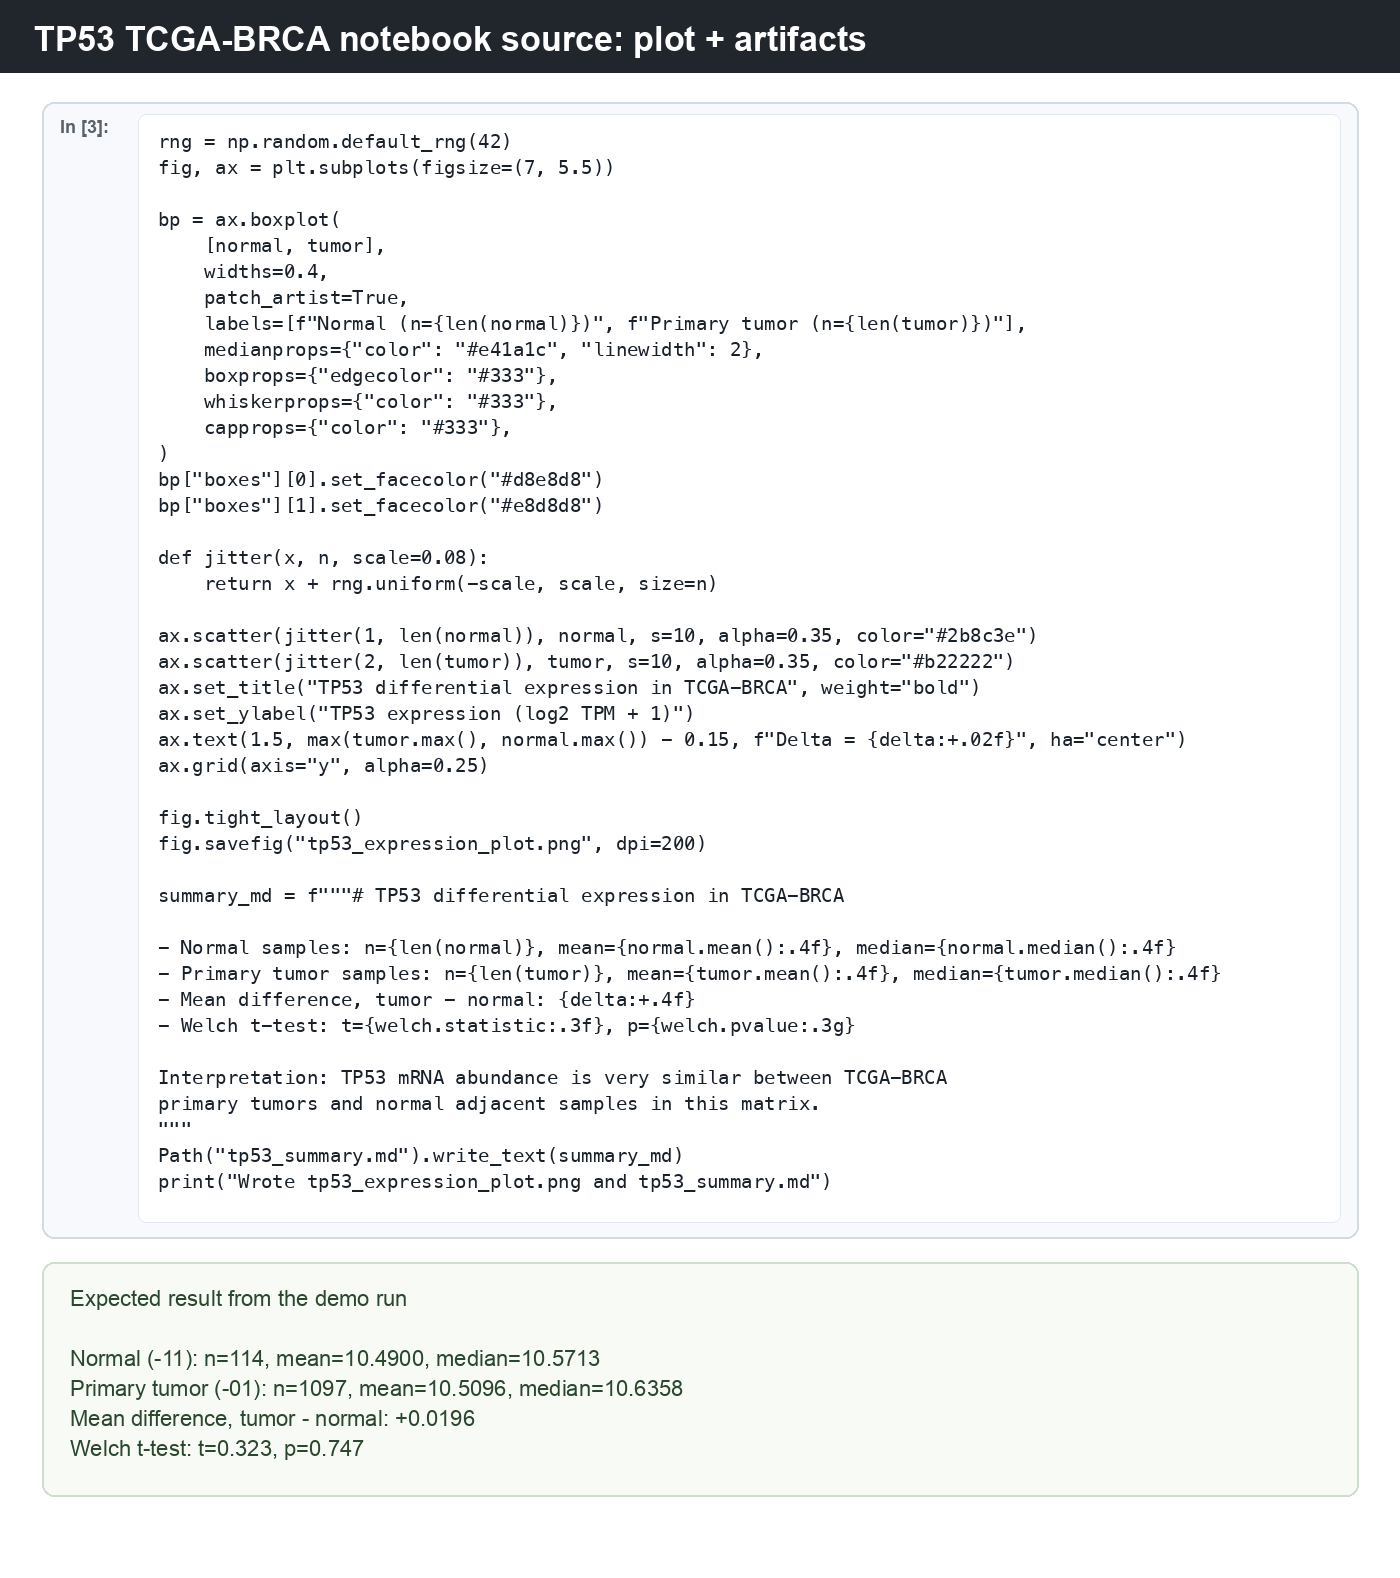
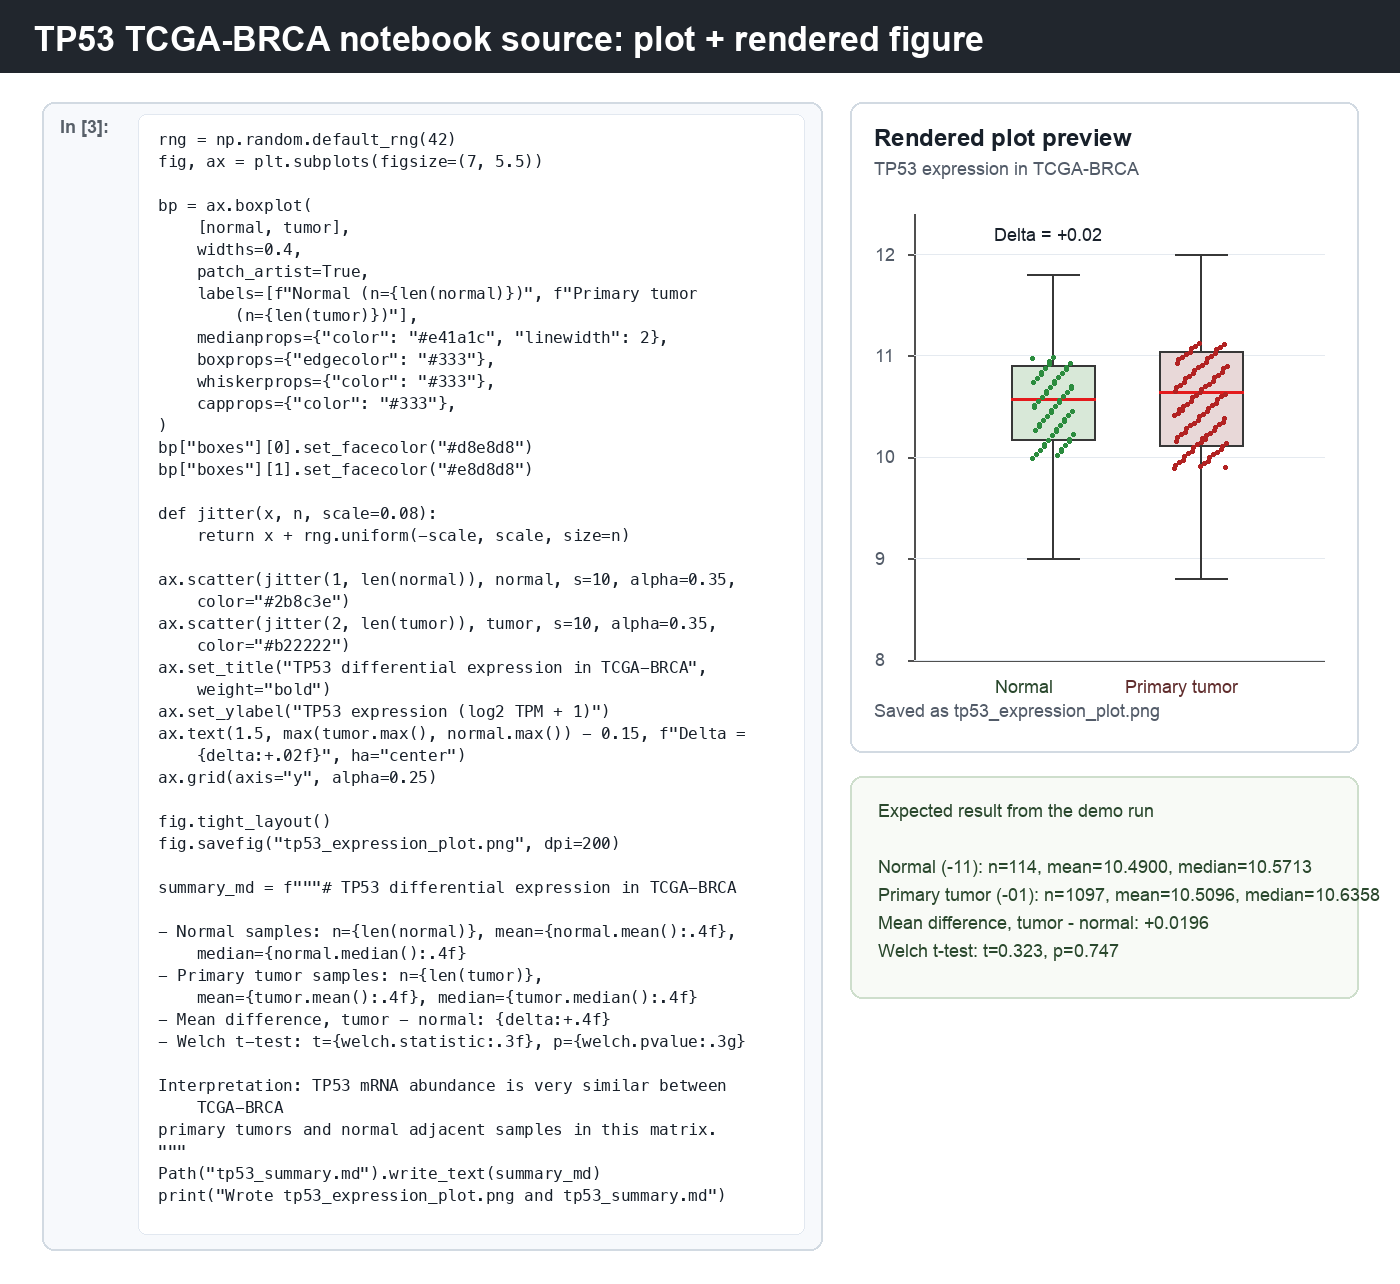
Show TP53 plot in source screenshot

diff --git a/scripts/make-tp53-source-assets.py b/scripts/make-tp53-source-assets.py
@@ -150,6 +150,8 @@ def font(size: int, *, mono: bool = False, bold: bool = False) -> ImageFont.Free
 FONT_TITLE = font(34, bold=True)
 FONT_TEXT = font(22)
 FONT_CODE = font(19, mono=True)
+FONT_CODE_SMALL = font(16, mono=True)
+FONT_TEXT_SMALL = font(18)
 FONT_LABEL = font(18, bold=True)
 
 
@@ -200,13 +202,27 @@ def draw_text_block(
     return y
 
 
-def draw_code_cell(draw: ImageDraw.ImageDraw, x: int, y: int, w: int, label: str, source: str) -> int:
-    lines = wrap_code(source)
-    h = 46 + len(lines) * 26 + 24
+def draw_code_cell(
+    draw: ImageDraw.ImageDraw,
+    x: int,
+    y: int,
+    w: int,
+    label: str,
+    source: str,
+    *,
+    wrap_width: int = 96,
+    code_font: ImageFont.FreeTypeFont | ImageFont.ImageFont = FONT_CODE,
+    line_h: int = 26,
+) -> int:
+    lines = wrap_code(source, width=wrap_width)
+    h = 46 + len(lines) * line_h + 24
     draw.rounded_rectangle((x, y, x + w, y + h), radius=12, fill=(247, 249, 252), outline=(210, 218, 226), width=2)
     draw.text((x + 18, y + 14), label, font=FONT_LABEL, fill=(88, 96, 105))
     draw.rounded_rectangle((x + 96, y + 12, x + w - 18, y + h - 16), radius=8, fill=(255, 255, 255), outline=(226, 232, 240))
-    draw_text_block(draw, lines, x + 116, y + 28, code=True, fill=(24, 32, 42))
+    line_y = y + 28
+    for line in lines:
+        draw.text((x + 116, line_y), line, font=code_font, fill=(24, 32, 42))
+        line_y += line_h
     return y + h + 24
 
 
@@ -237,11 +253,101 @@ def render_page(output: Path, title: str, cells: list[tuple[str, str]], result_t
     image.save(output)
 
 
+def draw_plot_preview(draw: ImageDraw.ImageDraw, x: int, y: int, w: int, h: int) -> None:
+    draw.rounded_rectangle((x, y, x + w, y + h), radius=12, fill=(255, 255, 255), outline=(210, 218, 226), width=2)
+    draw.text((x + 24, y + 22), "Rendered plot preview", font=font(24, bold=True), fill=(24, 32, 42))
+    draw.text((x + 24, y + 56), "TP53 expression in TCGA-BRCA", font=FONT_TEXT_SMALL, fill=(82, 91, 104))
+
+    plot_x0 = x + 64
+    plot_y0 = y + 112
+    plot_x1 = x + w - 34
+    plot_y1 = y + h - 92
+
+    draw.line((plot_x0, plot_y0, plot_x0, plot_y1), fill=(80, 80, 80), width=2)
+    draw.line((plot_x0, plot_y1, plot_x1, plot_y1), fill=(80, 80, 80), width=2)
+
+    ymin, ymax = 8.0, 12.4
+
+    def sy(value: float) -> float:
+        return plot_y1 - (value - ymin) / (ymax - ymin) * (plot_y1 - plot_y0)
+
+    for tick in [8, 9, 10, 11, 12]:
+        ty = sy(tick)
+        draw.line((plot_x0 - 6, ty, plot_x0, ty), fill=(80, 80, 80), width=2)
+        draw.line((plot_x0, ty, plot_x1, ty), fill=(229, 234, 240), width=1)
+        draw.text((x + 25, ty - 11), str(tick), font=FONT_TEXT_SMALL, fill=(82, 91, 104))
+
+    def box(cx: int, q1: float, median: float, q3: float, low: float, high: float, fill: tuple[int, int, int]) -> None:
+        box_w = 84
+        draw.line((cx, sy(low), cx, sy(high)), fill=(55, 55, 55), width=2)
+        draw.line((cx - 26, sy(low), cx + 26, sy(low)), fill=(55, 55, 55), width=2)
+        draw.line((cx - 26, sy(high), cx + 26, sy(high)), fill=(55, 55, 55), width=2)
+        draw.rectangle((cx - box_w // 2, sy(q3), cx + box_w // 2, sy(q1)), fill=fill, outline=(55, 55, 55), width=2)
+        draw.line((cx - box_w // 2, sy(median), cx + box_w // 2, sy(median)), fill=(228, 26, 28), width=3)
+
+    normal_x = int(plot_x0 + (plot_x1 - plot_x0) * 0.34)
+    tumor_x = int(plot_x0 + (plot_x1 - plot_x0) * 0.70)
+    box(normal_x, 10.17, 10.57, 10.91, 9.0, 11.8, (216, 232, 216))
+    box(tumor_x, 10.11, 10.64, 11.04, 8.8, 12.0, (232, 216, 216))
+
+    for i in range(58):
+        offset = ((i * 37) % 42) - 21
+        value = 10.49 + ((((i * 19) % 100) - 50) / 100) * 1.0
+        draw.ellipse((normal_x + offset - 2, sy(value) - 2, normal_x + offset + 2, sy(value) + 2), fill=(43, 140, 62))
+    for i in range(90):
+        offset = ((i * 31) % 54) - 27
+        value = 10.51 + ((((i * 23) % 100) - 50) / 100) * 1.25
+        draw.ellipse((tumor_x + offset - 2, sy(value) - 2, tumor_x + offset + 2, sy(value) + 2), fill=(178, 34, 34))
+
+    draw.text((normal_x - 58, plot_y1 + 16), "Normal", font=FONT_TEXT_SMALL, fill=(42, 72, 45))
+    draw.text((tumor_x - 76, plot_y1 + 16), "Primary tumor", font=FONT_TEXT_SMALL, fill=(96, 45, 45))
+    draw.text((plot_x0 + 80, plot_y0 + 10), "Delta = +0.02", font=FONT_TEXT_SMALL, fill=(24, 32, 42))
+    draw.text((x + 24, y + h - 52), "Saved as tp53_expression_plot.png", font=FONT_TEXT_SMALL, fill=(82, 91, 104))
+
+
+def render_plot_page(output: Path) -> None:
+    width = 1400
+    title = "TP53 TCGA-BRCA notebook source: plot + rendered figure"
+    code_h = 46 + len(wrap_code(PLOT_CODE, width=62)) * 22 + 24
+    right_h = 650 + 260 + 24
+    height = 102 + max(code_h, right_h) + 34
+    image = Image.new("RGB", (width, height), (255, 255, 255))
+    draw = ImageDraw.Draw(image)
+
+    draw.rectangle((0, 0, width, 72), fill=(33, 38, 45))
+    draw.text((34, 20), title, font=FONT_TITLE, fill=(255, 255, 255))
+
+    y = 102
+    draw_code_cell(
+        draw,
+        42,
+        y,
+        780,
+        "In [3]:",
+        PLOT_CODE,
+        wrap_width=62,
+        code_font=FONT_CODE_SMALL,
+        line_h=22,
+    )
+    draw_plot_preview(draw, 850, y, 508, 650)
+
+    result_y = y + 674
+    result_h = 54 + len(RESULT_TEXT.splitlines()) * 28
+    draw.rounded_rectangle((850, result_y, 1358, result_y + result_h), radius=12, fill=(248, 250, 246), outline=(206, 222, 204), width=2)
+    line_y = result_y + 24
+    for line in RESULT_TEXT.splitlines():
+        draw.text((878, line_y), line, font=FONT_TEXT_SMALL, fill=(42, 72, 45))
+        line_y += 28
+
+    output.parent.mkdir(parents=True, exist_ok=True)
+    image.save(output)
+
+
 def build() -> None:
     NOTEBOOK_PATH.parent.mkdir(parents=True, exist_ok=True)
     NOTEBOOK_PATH.write_text(json.dumps(notebook(), indent=2) + "\n")
     render_page(SHOT_1, "TP53 TCGA-BRCA notebook source: data load", [("In [1]:", SETUP_CODE), ("In [2]:", EXTRACT_CODE)])
-    render_page(SHOT_2, "TP53 TCGA-BRCA notebook source: plot + artifacts", [("In [3]:", PLOT_CODE)], RESULT_TEXT)
+    render_plot_page(SHOT_2)
 
 
 def main() -> None: